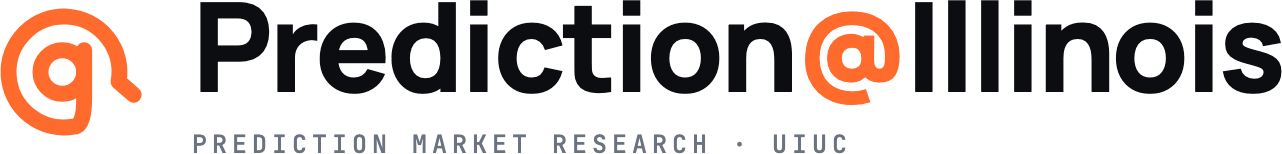
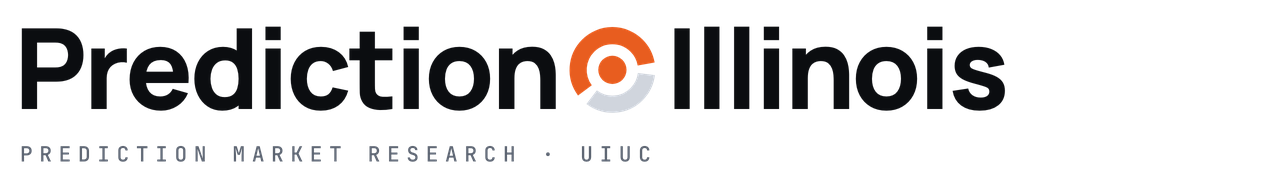
New mark: the probability ring (62/38 split, centre dot)
The logo lockup sets the ring in place of the @; running text keeps the character.
Regenerated favicon (SVG + PNG + touch icon), avatars, wordmarks, share image and
LinkedIn cover from brand/src/build.py; the @ set is archived in brand/v2_old.

diff --git a/assets/css/site.css b/assets/css/site.css
@@ -3,7 +3,7 @@
   --bg:#0B0D10; --surface:#12151A; --surface-2:#191D24; --surface-3:#20252E;
   --ink:#F2F4F7; --ink-2:#C5CBD5; --muted:#8B93A1; --line:#232830; --line-2:#2C333D;
   --brand:#FF6B2C; --brand-ink:#0B0D10; --brand-soft:rgba(255,107,44,.12); --brand-line:rgba(255,107,44,.35);
-  --yes:#34D399; --yes-soft:rgba(52,211,153,.13); --no:#F87171; --no-soft:rgba(248,113,113,.13); --gold:#E3B341;
+  --yes:#34D399; --yes-soft:rgba(52,211,153,.13); --no:#F87171; --no-soft:rgba(248,113,113,.13); --gold:#E3B341; --mark-rest:#4A515C;
   --glass:rgba(11,13,16,.78);
   --display:"Manrope",ui-sans-serif,system-ui,-apple-system,"Segoe UI",sans-serif;
   --sans:"DM Sans",ui-sans-serif,system-ui,-apple-system,"Segoe UI",sans-serif;
@@ -16,7 +16,7 @@
     --bg:#F5F6F8; --surface:#FFFFFF; --surface-2:#EEF0F3; --surface-3:#E4E7EC;
     --ink:#0B0D10; --ink-2:#363B44; --muted:#6B7280; --line:#DDE1E7; --line-2:#CDD2DA;
     --brand:#E85D1F; --brand-ink:#FFFFFF; --brand-soft:rgba(232,93,31,.10); --brand-line:rgba(232,93,31,.35);
-    --yes:#059669; --yes-soft:rgba(5,150,105,.10); --no:#DC2626; --no-soft:rgba(220,38,38,.10); --gold:#A16207;
+    --yes:#059669; --yes-soft:rgba(5,150,105,.10); --no:#DC2626; --no-soft:rgba(220,38,38,.10); --gold:#A16207; --mark-rest:#D0D5DD;
     --glass:rgba(245,246,248,.82);
   }
 }
@@ -25,7 +25,7 @@
   --bg:#F5F6F8; --surface:#FFFFFF; --surface-2:#EEF0F3; --surface-3:#E4E7EC;
   --ink:#0B0D10; --ink-2:#363B44; --muted:#6B7280; --line:#DDE1E7; --line-2:#CDD2DA;
   --brand:#E85D1F; --brand-ink:#FFFFFF; --brand-soft:rgba(232,93,31,.10); --brand-line:rgba(232,93,31,.35);
-  --yes:#059669; --yes-soft:rgba(5,150,105,.10); --no:#DC2626; --no-soft:rgba(220,38,38,.10); --gold:#A16207;
+  --yes:#059669; --yes-soft:rgba(5,150,105,.10); --no:#DC2626; --no-soft:rgba(220,38,38,.10); --gold:#A16207; --mark-rest:#D0D5DD;
   --glass:rgba(245,246,248,.82);
 }
 *{box-sizing:border-box}
@@ -46,8 +46,10 @@ header.site{position:sticky;top:env(safe-area-inset-top,0px);z-index:30;backgrou
 .bar{display:flex;align-items:center;gap:20px;min-height:62px}
 .brandlink{display:flex;align-items:center;gap:10px;text-decoration:none;margin-right:auto}
 .brandlink svg{width:26px;height:26px}
-.wordmark{font-family:var(--display);font-weight:800;font-size:19px;letter-spacing:-.03em}
-.wordmark .at{color:var(--brand)}
+.wordmark{font-family:var(--display);font-weight:800;font-size:19px;letter-spacing:-.03em;white-space:nowrap}
+/* the logo lockup sets the ring in place of the "@"; running text keeps the character */
+.wordmark .wm-at{display:inline-block;width:.9em;height:.9em;vertical-align:-.1em;margin:0 .025em;color:var(--brand)}
+.vh{position:absolute;width:1px;height:1px;margin:-1px;padding:0;overflow:hidden;clip:rect(0 0 0 0);white-space:nowrap;border:0}
 nav.site{display:flex;gap:22px;align-items:center}
 nav.site a{font-size:13.5px;font-weight:500;color:var(--ink-2);text-decoration:none}
 nav.site a:hover{color:var(--ink)}

diff --git a/_includes/header.html b/_includes/header.html
@@ -1,18 +1,25 @@
 <svg width="0" height="0" style="position:absolute" aria-hidden="true">
   <defs>
     <symbol id="mark" viewBox="0 0 100 100">
-      <g fill="none" stroke="currentColor" stroke-width="9.5" stroke-linecap="round" stroke-linejoin="round">
-        <circle cx="49" cy="50" r="13"/>
-        <path d="M62 37 L62 66 Q62 82.5 55.73 82.5 A33 33 0 1 1 82.5 55.73 L91.5 63.5"/>
+      <g fill="none" stroke-width="15" transform="rotate(135 50 50)">
+        <circle cx="50" cy="50" r="34" stroke="currentColor" stroke-dasharray="122.45 213.63" stroke-dashoffset="-5"/>
+        <circle cx="50" cy="50" r="34" style="stroke:var(--mark-rest)" stroke-dasharray="71.18 213.63" stroke-dashoffset="-137.45"/>
       </g>
+      <circle cx="50" cy="50" r="13" fill="currentColor"/>
+    </symbol>
+    <symbol id="mark-inline" viewBox="0 0 100 100">
+      <g fill="none" stroke-width="17" transform="rotate(135 50 50)">
+        <circle cx="50" cy="50" r="34" stroke="currentColor" stroke-dasharray="122.45 213.63" stroke-dashoffset="-5"/>
+        <circle cx="50" cy="50" r="34" style="stroke:var(--mark-rest)" stroke-dasharray="71.18 213.63" stroke-dashoffset="-137.45"/>
+      </g>
+      <circle cx="50" cy="50" r="14" fill="currentColor"/>
     </symbol>
   </defs>
 </svg>
 <header class="site">
   <div class="wrap bar">
     <a class="brandlink" href="/" aria-label="Prediction at Illinois, home">
-      <svg style="color:var(--brand)"><use href="#mark"/></svg>
-      <span class="wordmark">Prediction<span class="at">@</span>Illinois</span>
+      <span class="wordmark">Prediction<svg class="wm-at" aria-hidden="true"><use href="#mark-inline"/></svg><span class="vh">@</span>Illinois</span>
     </a>
     <nav class="site" aria-label="Primary">
       <a href="/"{% if page.url == '/' %} class="on"{% endif %}>Home</a>

diff --git a/_layouts/default.html b/_layouts/default.html
@@ -17,7 +17,9 @@
 {% if page.url == '/' %}<script type="application/ld+json">
 {"@context":"https://schema.org","@type":"Organization","name":"Prediction@Illinois","alternateName":["Prediction at Illinois","Prediction Illinois"],"url":"https://prediction-illinois.github.io/","logo":"https://prediction-illinois.github.io/brand/logo-400.png","description":"Quantitative trading research group at the University of Illinois Urbana-Champaign studying prediction markets and event contracts.","email":"{{ site.contact }}","sameAs":["https://github.com/Prediction-Illinois"]}
 </script>{% endif %}
-<link rel="icon" type="image/png" href="/brand/favicon-64.png">
+<link rel="icon" type="image/svg+xml" href="/brand/favicon.svg?v=3">
+<link rel="icon" type="image/png" sizes="64x64" href="/brand/favicon-64.png?v=3">
+<link rel="apple-touch-icon" href="/brand/apple-touch-icon-180.png">
 <script>(function(){var r=document.documentElement;try{if(!r.dataset.theme){r.dataset.theme=localStorage.getItem("pi-theme")==="light"?"light":"dark"}}catch(e){r.dataset.theme="dark"}})();</script>
 <link rel="preconnect" href="https://fonts.googleapis.com">
 <link rel="preconnect" href="https://fonts.gstatic.com" crossorigin>

diff --git a/brand/src/build.py b/brand/src/build.py
@@ -1,0 +1,151 @@
+"""Build every Prediction@Illinois brand asset from one ring geometry.
+
+The mark is a probability ring: a 62% brand-orange arc and a 38% muted arc,
+split by two flat-cut gaps, rotated so the orange arc rises from the lower
+left, with a solid dot in the centre. The logo lockup sets the ring in place
+of the "@" in Prediction@Illinois; running text keeps the "@".
+
+Run from the repo root:  python3 brand/src/build.py
+Needs rsvg-convert (SVG -> PNG), Google Chrome (HTML -> PNG, for the Manrope
+lockups) and Pillow.
+"""
+import math
+import pathlib
+import subprocess
+import tempfile
+
+from PIL import Image
+
+ROOT = pathlib.Path(__file__).resolve().parents[2]
+OUT = ROOT / "brand"
+CHROME = "/Applications/Google Chrome.app/Contents/MacOS/Google Chrome"
+
+INK, WHITE = "#0B0D10", "#F2F4F7"
+ORANGE, ORANGE_LIGHT = "#FF6B2C", "#E85D1F"   # site --brand, dark and light themes
+REST_DARK, REST_LIGHT = "#4A515C", "#D0D5DD"  # the 38% arc on dark / light grounds
+
+C = 2 * math.pi * 34
+SPLIT = 0.62
+
+# stroke width, gap, dot radius — thicker as the mark gets smaller
+LARGE = (11, 7, 10)    # avatars, 512px mark
+BOLD = (15, 10, 13)    # favicon, footer, anything under ~64px
+INLINE = (17, 10, 14)  # the ring set inside the lockup at text size
+
+
+def ring(geom, orange, rest, rest_opacity=1.0):
+    sw, gap, dot = geom
+    o, g = SPLIT * C - gap, (1 - SPLIT) * C - gap
+    op = f' stroke-opacity="{rest_opacity}"' if rest_opacity < 1 else ""
+    return (
+        f'<g fill="none" stroke-width="{sw}" transform="rotate(135 50 50)">'
+        f'<circle cx="50" cy="50" r="34" stroke="{orange}" stroke-dasharray="{o:.2f} {C:.2f}" stroke-dashoffset="{-gap / 2:.2f}"/>'
+        f'<circle cx="50" cy="50" r="34" stroke="{rest}"{op} stroke-dasharray="{g:.2f} {C:.2f}" stroke-dashoffset="{-(SPLIT * C + gap / 2):.2f}"/>'
+        f'</g><circle cx="50" cy="50" r="{dot}" fill="{orange}"/>'
+    )
+
+
+def svg(inner, bg=None, rx=0, scale=1.0):
+    body = inner if scale == 1 else f'<g transform="translate(50 50) scale({scale}) translate(-50 -50)">{inner}</g>'
+    back = f'<rect width="100" height="100" rx="{rx}" fill="{bg}"/>' if bg else ""
+    return f'<svg xmlns="http://www.w3.org/2000/svg" viewBox="0 0 100 100" width="100" height="100">{back}{body}</svg>\n'
+
+
+def write(name, text):
+    (OUT / name).write_text(text)
+
+
+def png(svg_name, png_name, size):
+    subprocess.run(["rsvg-convert", "-w", str(size), "-h", str(size), "-o", str(OUT / png_name), str(OUT / svg_name)], check=True)
+
+
+def chrome(html, png_name, w, h, transparent=False):
+    """Render HTML at 2x and downsample, so text and curves stay crisp."""
+    with tempfile.TemporaryDirectory() as tmp:
+        page, shot = pathlib.Path(tmp, "p.html"), pathlib.Path(tmp, "p.png")
+        page.write_text(html)
+        args = [CHROME, "--headless=new", "--disable-gpu", "--hide-scrollbars", "--force-device-scale-factor=2",
+                f"--window-size={w},{h}", "--virtual-time-budget=8000", f"--screenshot={shot}", page.as_uri()]
+        if transparent:
+            args.insert(2, "--default-background-color=00000000")
+        subprocess.run(args, check=True, capture_output=True)
+        Image.open(shot).resize((w, h), Image.LANCZOS).save(OUT / png_name, optimize=True)
+
+
+def inline_ring(orange, rest):
+    return f'<svg class="at" viewBox="0 0 100 100">{ring(INLINE, orange, rest)}</svg>'
+
+
+HEAD = """<!doctype html><html><head><meta charset="utf-8">
+<link rel="stylesheet" href="https://fonts.googleapis.com/css2?family=Manrope:wght@800&family=JetBrains+Mono:wght@500&display=block">
+<style>
+html,body{margin:0;height:100%}
+body{font-family:Manrope,sans-serif;-webkit-font-smoothing:antialiased}
+.wm{font-weight:800;letter-spacing:-.03em;white-space:nowrap;line-height:1}
+.wm .at{display:inline-block;width:.9em;height:.9em;vertical-align:-.1em;margin:0 .025em}
+.mono{font-family:'JetBrains Mono',monospace;font-weight:500;text-transform:uppercase}
+.grid{position:absolute;inset:0;background-image:linear-gradient(#ffffff08 1px,transparent 1px),linear-gradient(90deg,#ffffff08 1px,transparent 1px)}
+</style></head><body>"""
+
+
+def main():
+    old = OUT / "v2_old"   # the "@" mark set, kept once before the first ring build
+    if not old.exists():
+        old.mkdir()
+        for f in OUT.iterdir():
+            if f.is_file() and f.suffix in (".svg", ".png"):
+                (old / f.name).write_bytes(f.read_bytes())
+
+    # vector marks
+    write("mark.svg", svg(ring(LARGE, ORANGE, REST_DARK)))               # for dark grounds
+    write("mark-light.svg", svg(ring(LARGE, ORANGE_LIGHT, REST_LIGHT)))  # for light grounds
+    write("mark-orange.svg", svg(ring(LARGE, ORANGE, ORANGE, .3)))       # one colour, any ground
+    write("mark-white.svg", svg(ring(LARGE, WHITE, WHITE, .3)))
+    write("mark-dark.svg", svg(ring(LARGE, INK, INK, .28)))
+    write("avatar-dark.svg", svg(ring(LARGE, ORANGE, REST_DARK), bg=INK, scale=.62))
+    write("avatar-orange.svg", svg(ring(LARGE, INK, INK, .3), bg=ORANGE, scale=.62))
+    write("favicon.svg", svg(ring(BOLD, ORANGE, REST_DARK), bg=INK, rx=22, scale=.8))
+
+    # rasters
+    png("mark-orange.svg", "mark-orange-512.png", 512)
+    png("avatar-dark.svg", "logo-400.png", 400)
+    png("avatar-dark.svg", "logo-linkedin-300.png", 300)
+    png("avatar-orange.svg", "logo-orange-400.png", 400)
+    png("favicon.svg", "favicon-64.png", 64)
+    png("favicon.svg", "apple-touch-icon-180.png", 180)
+
+    # lockups — the ring stands in for the "@"
+    for name, fg, orange, rest, tag in (("wordmark-dark.png", WHITE, ORANGE, REST_DARK, "#8A919C"),
+                                        ("wordmark-light.png", INK, ORANGE_LIGHT, REST_LIGHT, "#5B6370")):
+        chrome(HEAD + f"""<div style="padding:10px 14px 0;color:{fg}">
+<div class="wm" style="font-size:112px">Prediction{inline_ring(orange, rest)}Illinois</div>
+<div class="mono" style="font-size:21px;letter-spacing:.32em;color:{tag};margin:18px 0 0 6px">Prediction market research · UIUC</div></div>""",
+               name, 1282, 180, transparent=True)
+
+    chips = "".join(f'<span style="border:1px solid #2A2F37;border-radius:999px;padding:12px 18px;background:#11141A">{m}</span>'
+                    for m in ("Elections", "Sports", "Crypto", "Economics", "Tech", "Weather"))
+    line = "0,520 150,528 300,500 450,505 600,470 750,461 900,420 1050,400 1200,370"
+    chrome(HEAD + f"""<div style="position:relative;width:1200px;height:630px;background:{INK};color:{WHITE};overflow:hidden">
+<div class="grid" style="background-size:150px 126px"></div>
+<svg style="position:absolute;inset:0" width="1200" height="630"><polyline points="{line}" fill="none" stroke="#1F5C4A" stroke-width="2.5"/></svg>
+<div style="position:absolute;left:80px;top:76px;display:flex;align-items:baseline;gap:14px">
+<div class="wm" style="font-size:34px">Prediction{inline_ring(ORANGE, REST_DARK)}Illinois</div><div class="mono" style="font-size:15px;letter-spacing:.2em;color:#8A919C">· UIUC</div></div>
+<div class="wm" style="position:absolute;left:80px;top:250px;font-size:82px;letter-spacing:-.035em;line-height:1.02">Prediction markets,<br><span style="color:#8A919C">traded on research.</span></div>
+<div class="mono" style="position:absolute;right:80px;top:250px;display:grid;grid-template-columns:repeat(2,auto);gap:12px;font-size:13px;letter-spacing:.14em;color:#C5CBD5">{chips}</div>
+<div class="mono" style="position:absolute;left:80px;bottom:72px;font-size:15px;letter-spacing:.16em;color:{ORANGE}">Fall 2026 applications open</div>
+<div class="mono" style="position:absolute;right:80px;bottom:72px;font-size:14px;letter-spacing:.04em;color:#8A919C;text-transform:none">prediction-illinois.github.io</div></div>""",
+           "og-image-1200x630.png", 1200, 630)
+
+    cover_line = "0,150 140,156 280,138 420,141 560,118 700,112 840,96 980,88 1128,70"
+    chrome(HEAD + f"""<div style="position:relative;width:1128px;height:191px;background:{INK};color:{WHITE};overflow:hidden">
+<div class="grid" style="background-size:141px 64px"></div>
+<svg style="position:absolute;inset:0" width="1128" height="191"><polyline points="{cover_line}" fill="none" stroke="#1F5C4A" stroke-width="2"/></svg>
+<div style="position:absolute;inset:0;display:flex;flex-direction:column;align-items:center;justify-content:center;gap:14px">
+<div class="wm" style="font-size:52px">Prediction{inline_ring(ORANGE, REST_DARK)}Illinois</div>
+<div class="mono" style="font-size:12.5px;letter-spacing:.3em;color:#8A919C">Prediction market research · UIUC</div></div></div>""",
+           "linkedin-cover-1128x191.png", 1128, 191)
+    print("built", sorted(p.name for p in OUT.iterdir() if p.is_file()))
+
+
+if __name__ == "__main__":
+    main()
